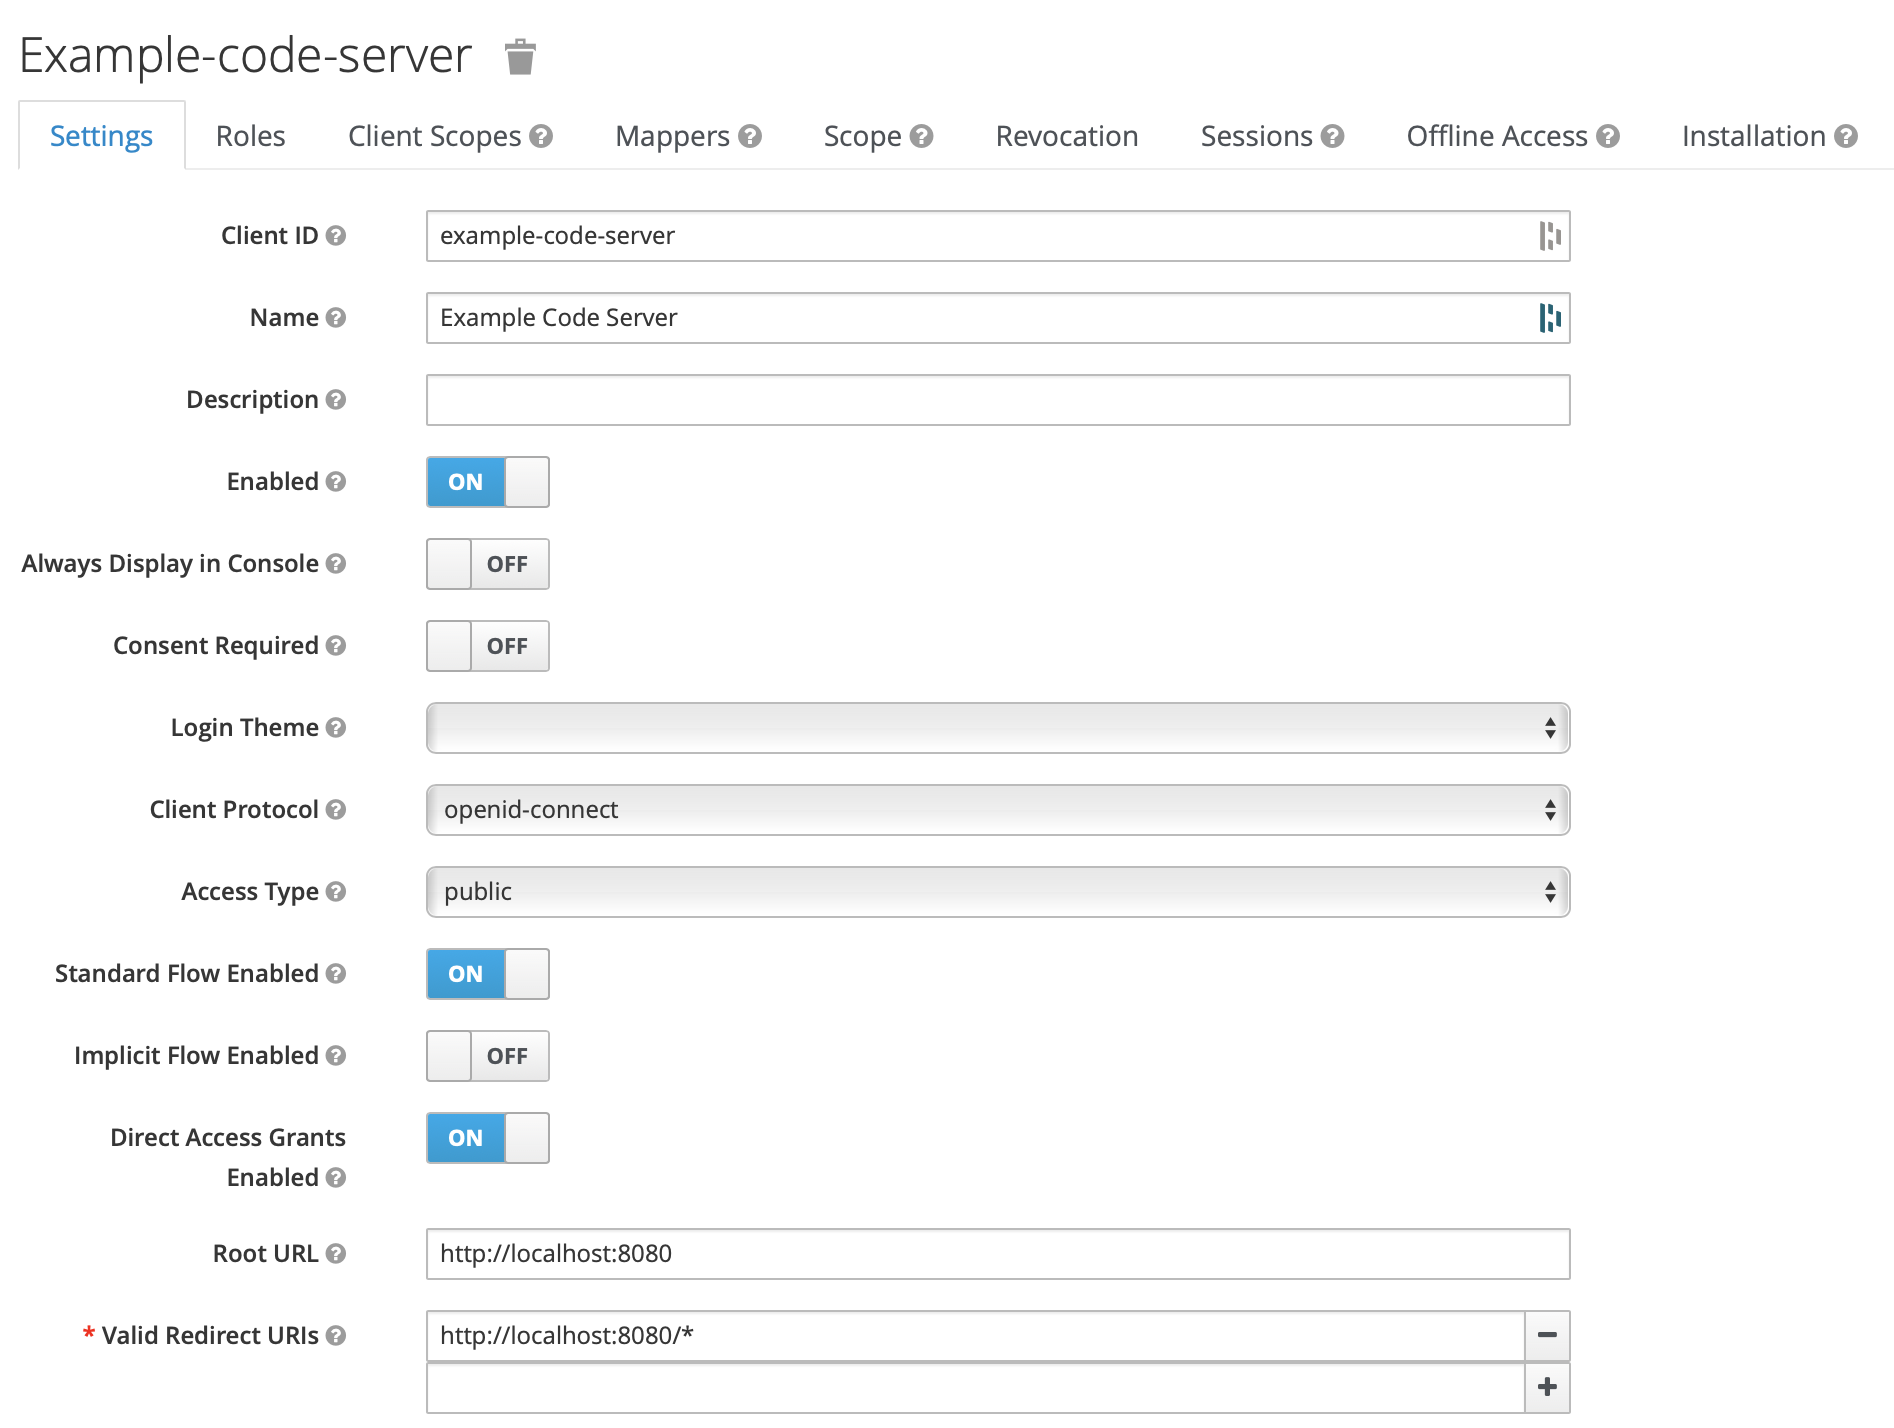
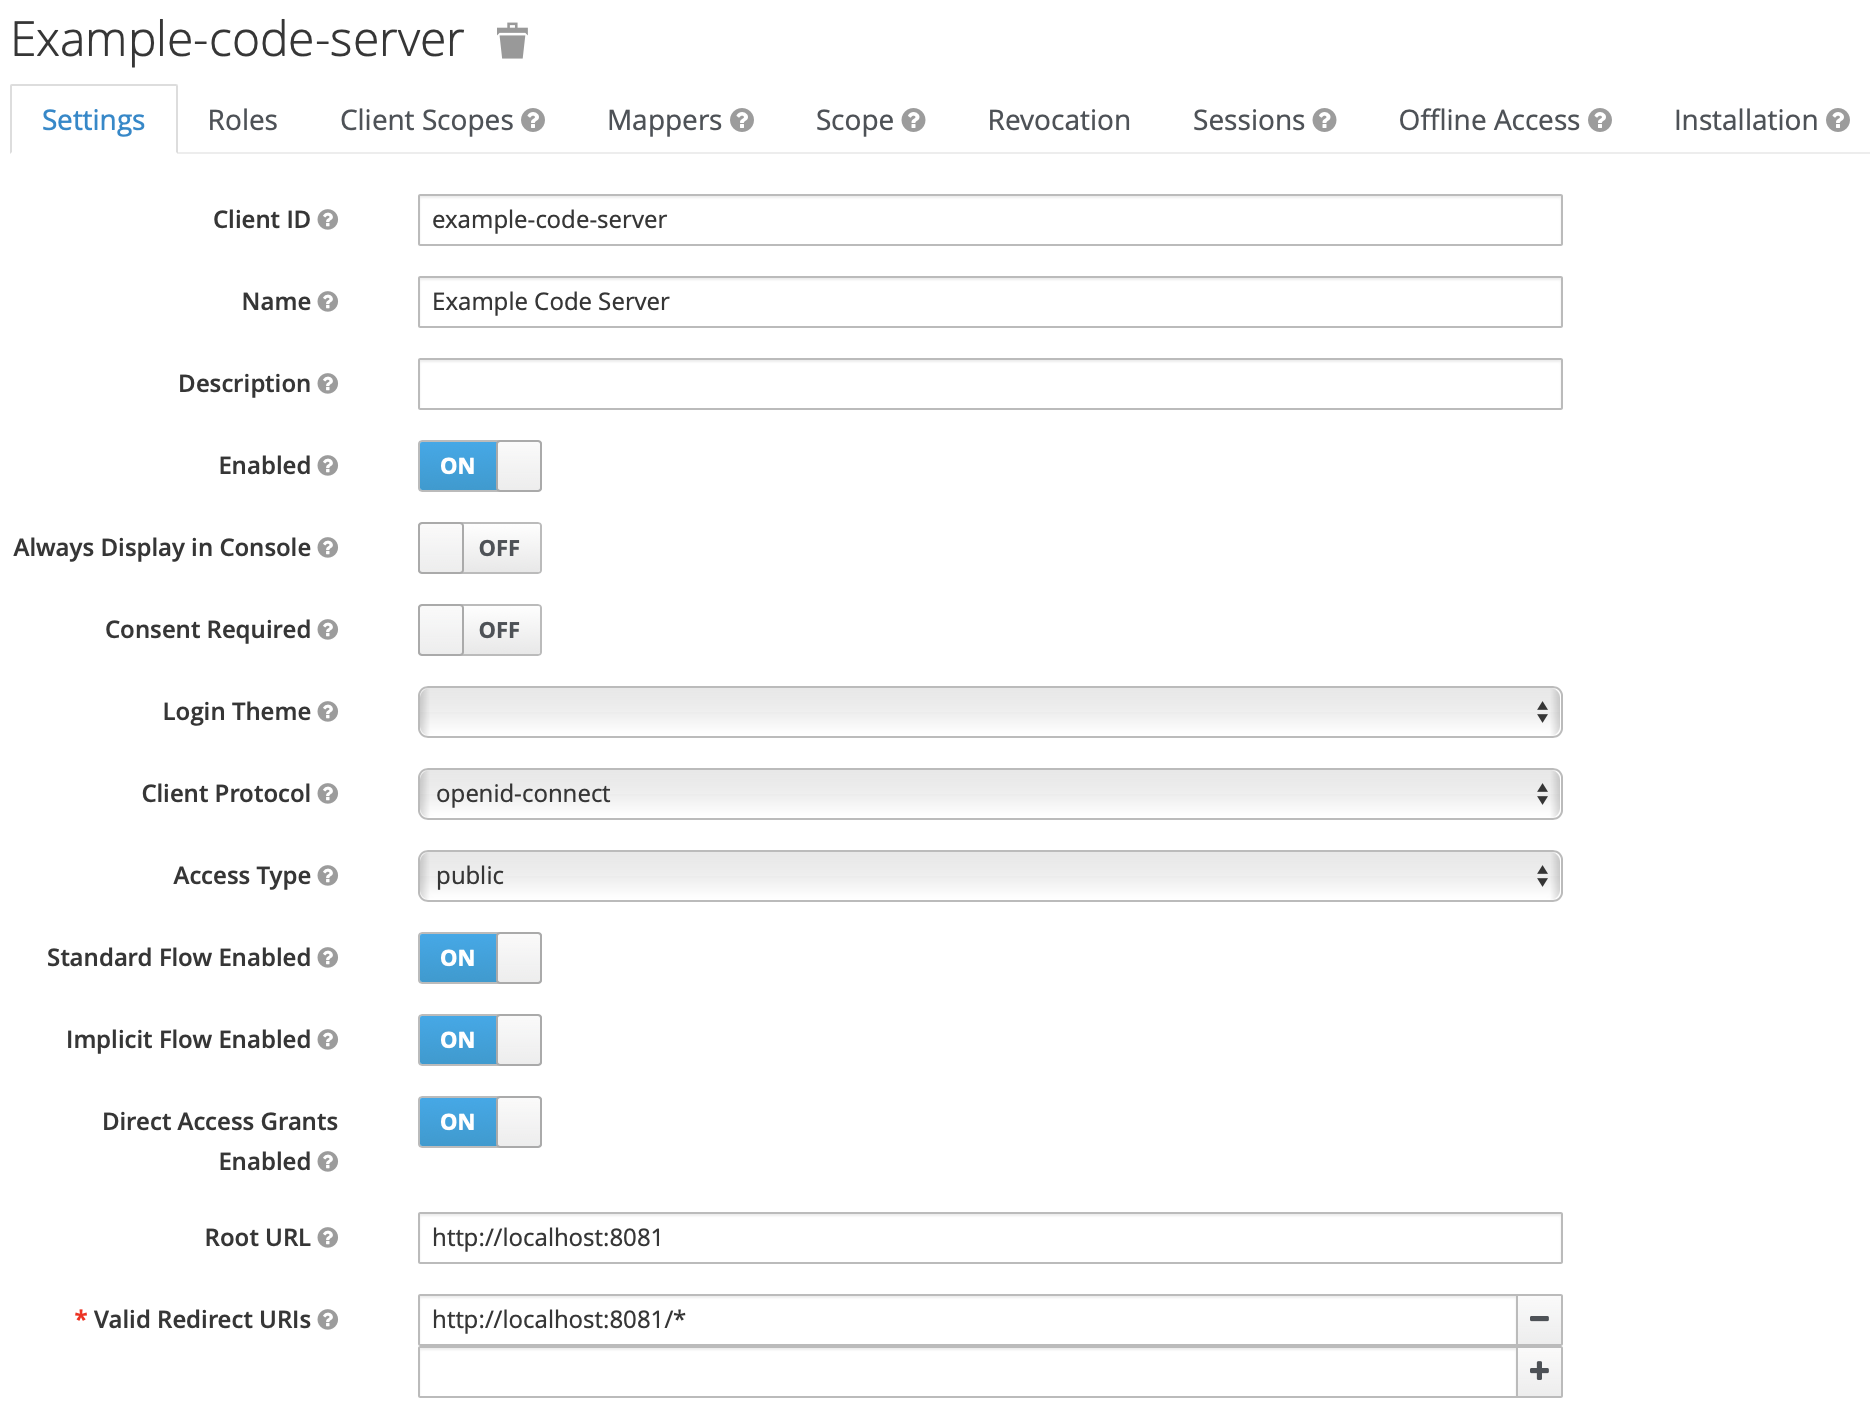
Updated the documentation with a couple extra steps after testing it out

diff --git a/docs/openid-auth.md b/docs/openid-auth.md
@@ -64,12 +64,15 @@ openid-secret: "{prerequisites_openid-secret_value}"
 <img src="assets/openid-connect/okta/create-application.png" />
 </kbd>
 
-### Update the application Name and URLs
+### Update The Application
 1. Update the ***Application name*** field with the desired name for this application.
 2. Update the ***Login redirect URIs*** and ***Logout redirect URIs (Optional)*** fields so that they point to the correct code-server endpoint then click ***Save***
-<kbd>
-<img src="assets/openid-connect/okta/update-application.png" />
-</kbd>
+    <kbd><img src="assets/openid-connect/okta/update-application.png"/></kbd>
+3. To update the ***Allowed grant types*** start by navigating to the ***General Settings*** section and clicking the ***Edit*** link in the top right corner of the section card.
+4. Once in the edit view, locate the ***Allowed grant types*** checkbox list and make sure the check the boxs for ***Implicit (Hybrid)*** and ***Allow ID Token with implicit grant type*** are checked, then scroll to the bottom of the page and click ***Save***.
+    <kbd><img src="assets/openid-connect/okta/update-application-grants.png"/></kbd>
+5. Lastly, ensure a user is assigned to this application by navigating to the ***Assignments*** tab, clicking on ***Assign***, then selecting ***Assign to People***.
+    <kbd><img src="assets/openid-connect/okta/update-application-assignments.png"/></kbd>
 
 ### Gather The Client ID
 1. Make note of the `Client ID` value. This value will be used in the Code-Server `openid-client-id` configuration variable.
@@ -107,7 +110,9 @@ openid-secret: "{prerequisites_openid-secret_value}"
 </kbd>
 
 ### Update The Client Name
-1. Once the ***Save*** button in the ***Add Client*** window has been clicked, the client will be created and the page will be redirected to the client settings view. From inside that view proceed to name the newly create client by populating the ***Name*** field. Then scroll to the bottom of the page and click ***Save***.
+1. Once the ***Save*** button in the ***Add Client*** window has been clicked, the client will be created and the page will be redirected to the client settings view. From inside that view proceed to name the newly create client by populating the ***Name*** field. 
+2. Enable implicit flow by changing ***Implicit Flow Enabled*** from ***OFF*** to ***ON***.
+3. Scroll to the bottom of the page and click ***Save***.
 <kbd>
 <img src="assets/openid-connect/keycloak/update-client.png" />
 </kbd>
